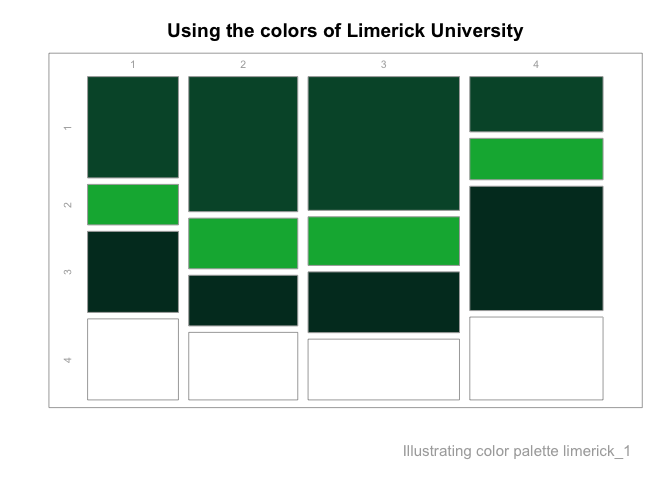
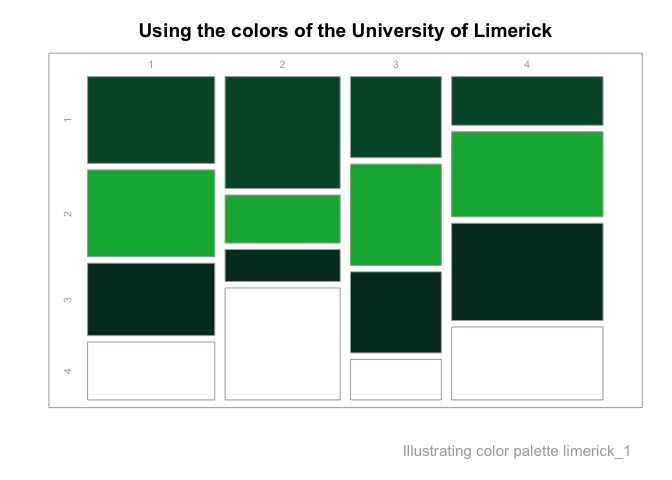
add note on extending range of pals

diff --git a/README.md b/README.md
@@ -92,8 +92,8 @@ and institutions.)
 
 <!-- The **unicol** package currently contains **202\ color palettes** from **86\ institutions**.  -->
 <!-- Example 1: Random pals (from vignette color_pals.Rmd): -->
-<!-- As a table: -->
-<!-- As a figure: -->
+<!-- Show as a table: -->
+<!-- Show as a figure: -->
 
 **Figure 1** illustrates 50 random color palettes (with 246 colors):
 
@@ -154,12 +154,23 @@ unikn::demopal(berkeley_1, type = 2, main = "The colors of Berkeley, University 
 <img src="man/figures/README-examples-unicol-2.png" width="600px" style="display: block; margin: auto;" />
 
 ``` r
-unikn::demopal(limerick_1, type = 3, main = "Using the colors of Limerick University")
+unikn::demopal(limerick_1, type = 3, main = "Using the colors of the University of Limerick", seed = 3)
 ```
 
 <img src="man/figures/README-examples-unicol-3.png" width="600px" style="display: block; margin: auto;" />
 
 ## Adding color palettes
+
+If you are missing a color palette, you can easily create it. For
+instructions, see the documentation of the `newpal()` function (of the
+**[unikn](https://CRAN.R-project.org/package=unikn)**). The vignette on
+[Institutional
+colors](https://hneth.github.io/unikn/articles/color_inst.html) provides
+a corresponding example.
+
+If you create a new color palette, **please let us know** (on [GitHub
+issues](https://github.com/hneth/unicol/issues)) so that we can include
+it in future versions of the **unicol** package.
 
 <!-- +++ here now +++  -->
 <!-- unicol pkg logo and link: -->
